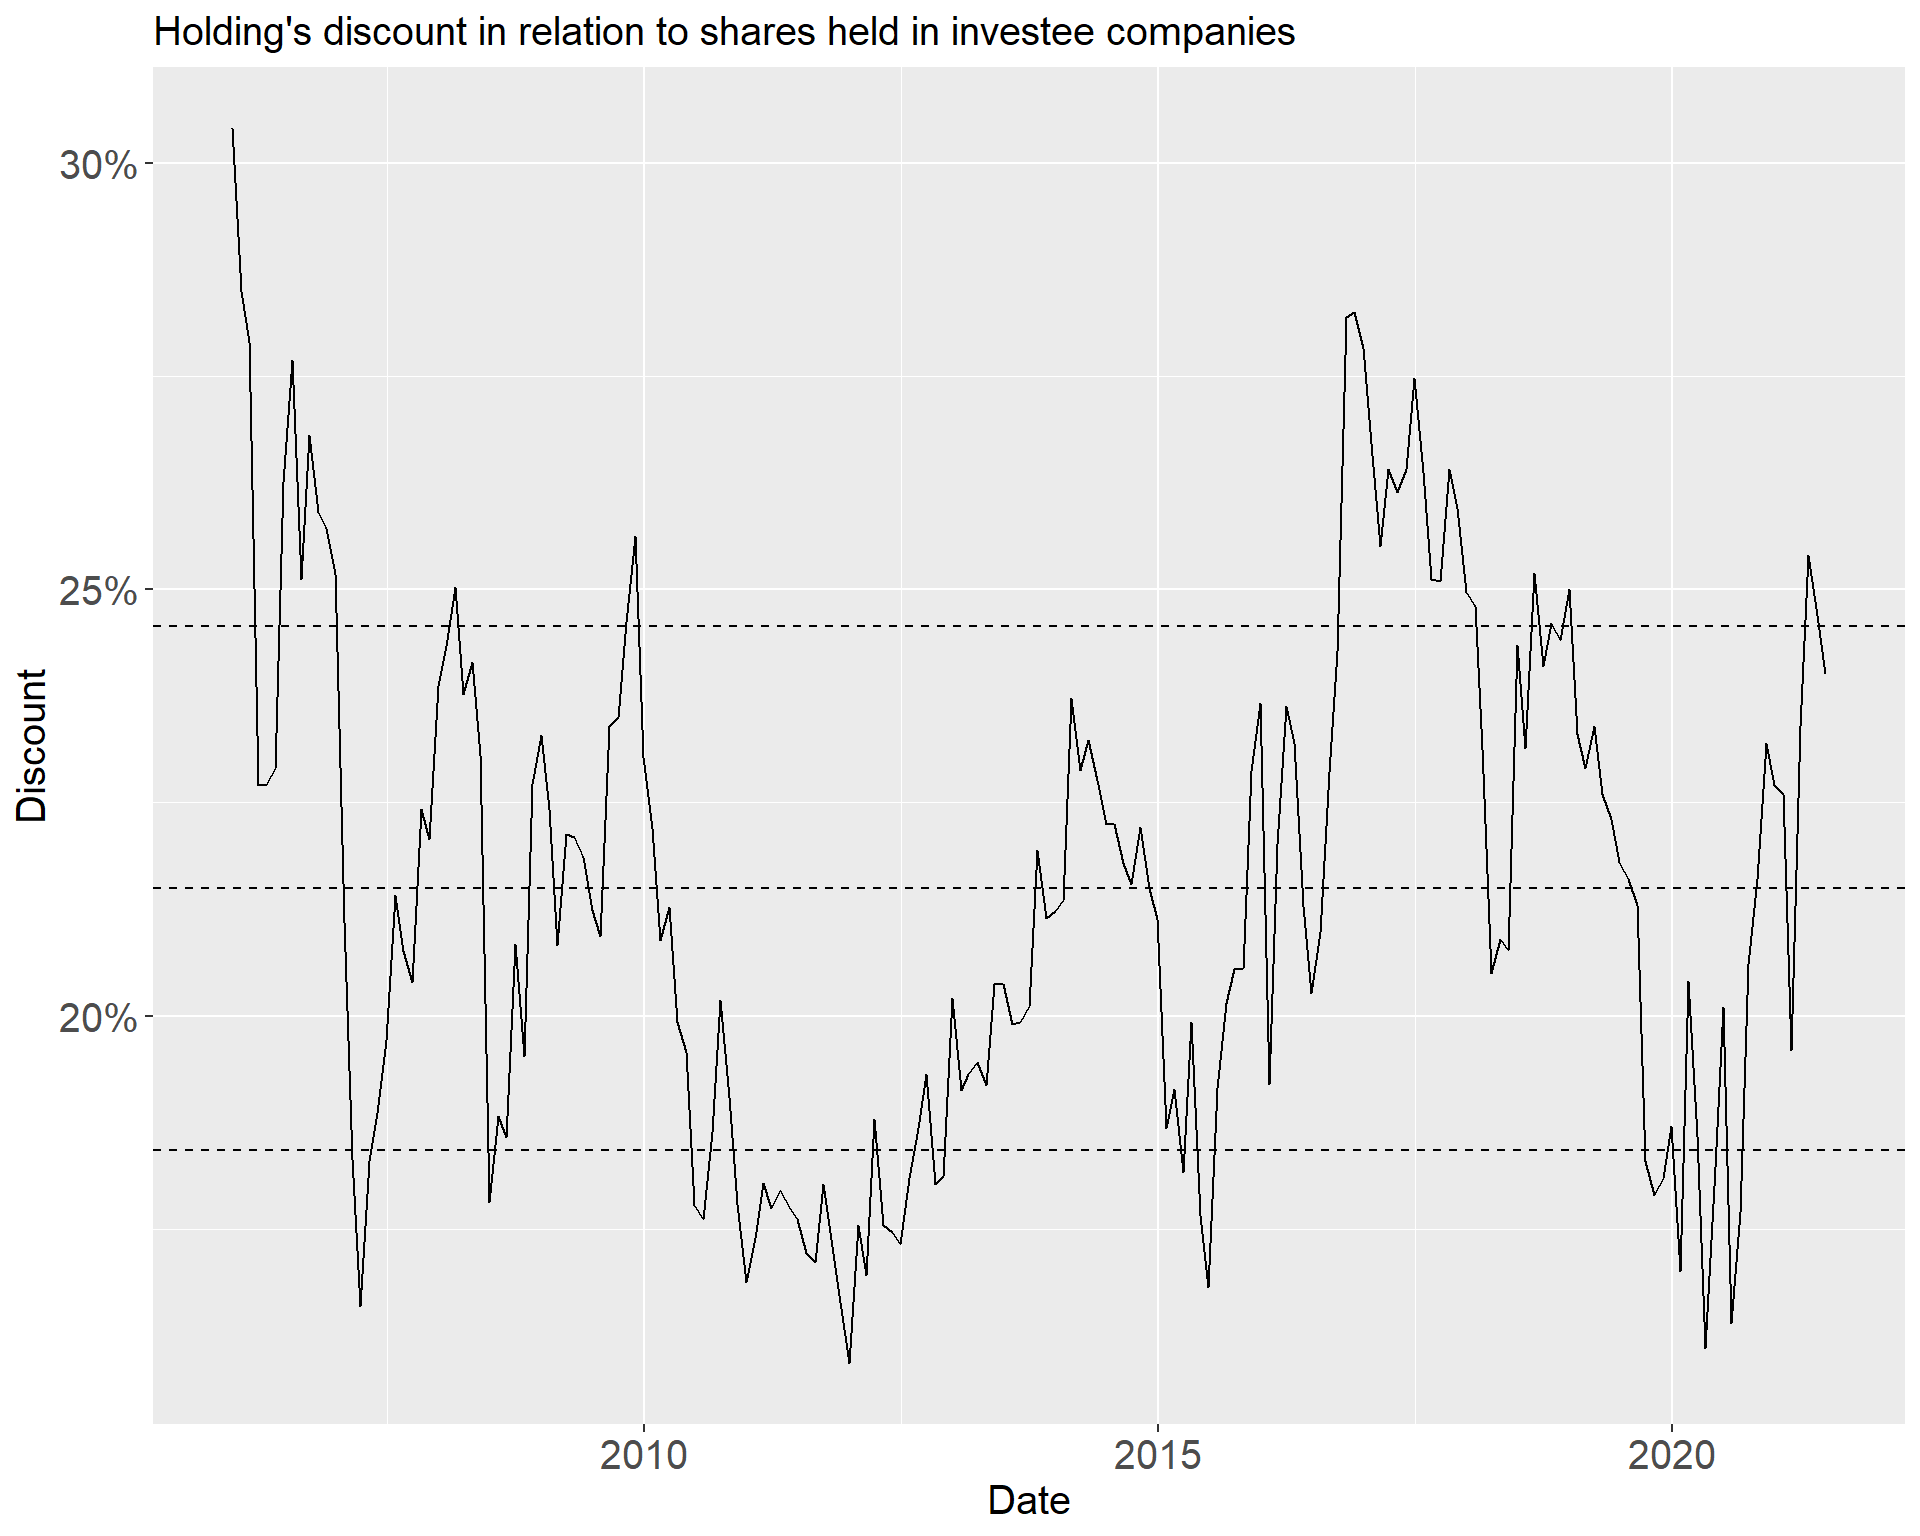
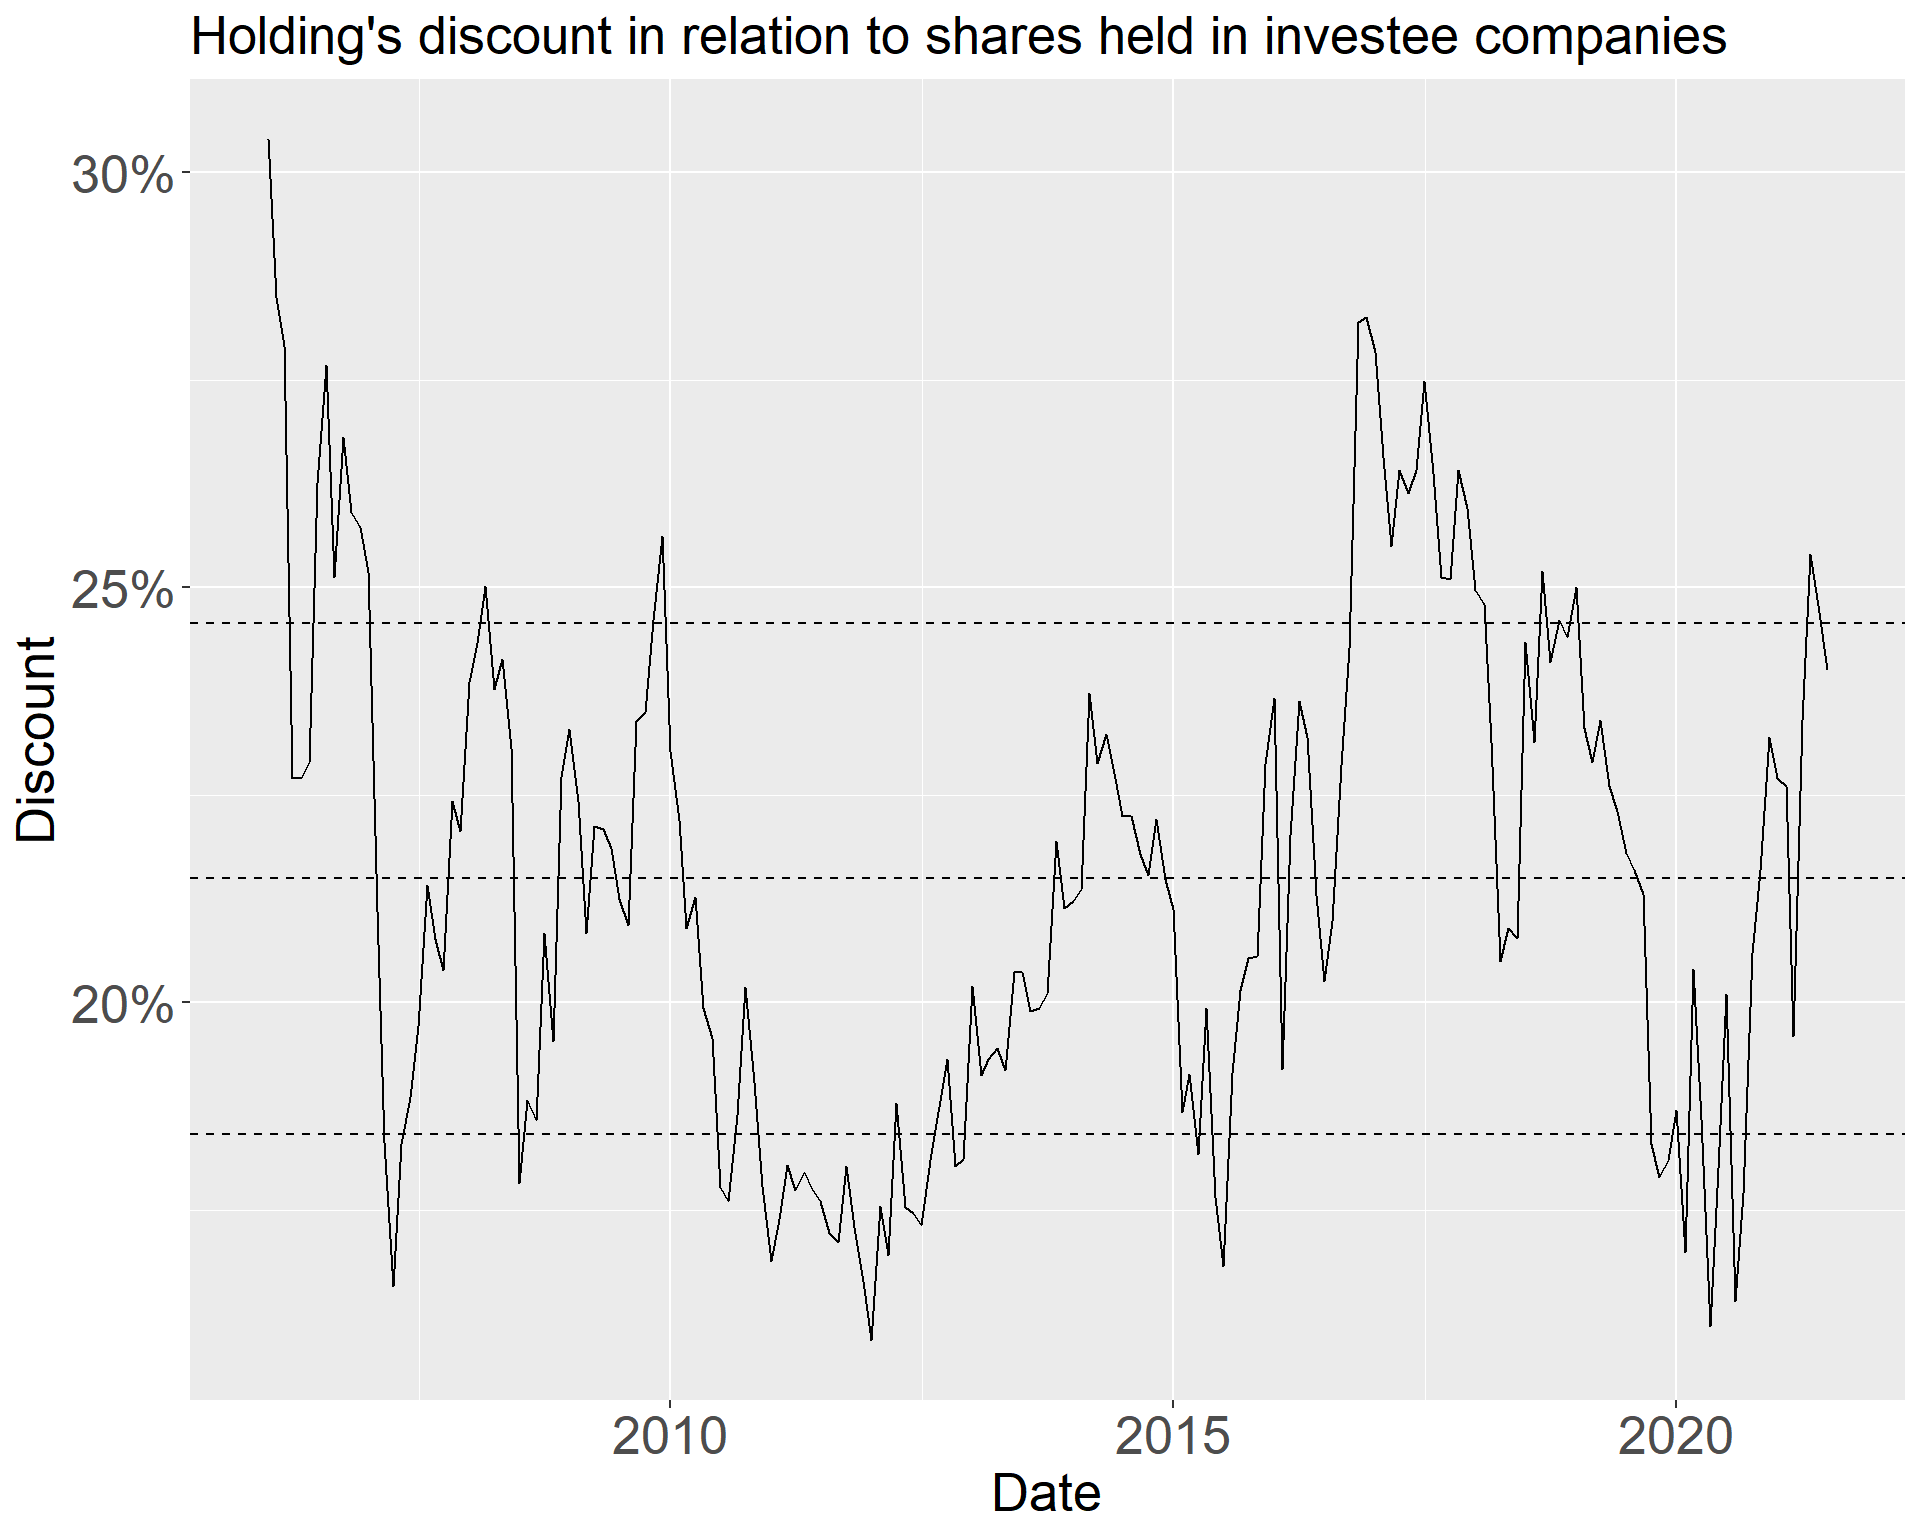
Update post

diff --git a/content/post/2021-07-31-arbitrate-itsa4-itub4/index.en.html b/content/post/2021-07-31-arbitrate-itsa4-itub4/index.en.html
@@ -48,10 +48,13 @@ g &lt;- ggscatter(data = merge, x = &quot;itsa_price&quot;, y = &quot;itub_price
                add.params = list(color = &quot;blue&quot;, fill = &quot;lightgray&quot;), 
                conf.int = TRUE)
 g + 
-  stat_cor(method = &quot;pearson&quot;, label.x = 3, label.y = 30) + 
+  stat_cor(method = &quot;pearson&quot;, label.x = 3, label.y = 30, size = 20) + 
   labs(x = &quot;ITSA4&quot;,
        y = &quot;ITUB4&quot;,
-       title = &quot;Scatterplot ITSA4 versus ITUB4&quot;)</code></pre>
+       title = &quot;Scatterplot ITSA4 versus ITUB4&quot;) + 
+  theme(axis.text=element_text(size=20),
+        axis.title=element_text(size=20),
+        plot.title = element_text(size=20))</code></pre>
 <p><img src="{{< blogdown/postref >}}index.en_files/figure-html/correlation-1.png" width="960" /></p>
 <p>As you can see, correlatin is equal to 0.99, which means that ITUB4 and ITSA4 mean almost the same thing. As a holding, ITSA4 is traded at a discount in relation to the sum of its investees’ market capitalization. But, how much is the “fair” discount, and can we buy ITSA4 simply to get ITUB4 at lower prices? These are the questions that this post intends to answer.</p>
 <p>Fortunatelly, Itaúsa calculates this discount for us, in a monthly basis (click <a href="https://www.itausa.com.br/ListAtivos.aspx?idCanal=Afrgtrc88Ma15TQHbkasoQ==&amp;linguagem=pt&amp;ano=2021">here</a> to get the data). If you don’t want to or don’t know how to get your hands dirty, I have already done the job, which you can see on the plot below:</p>
@@ -75,9 +78,9 @@ ggplot(data = df, aes(x = date, y = discount)) +
   labs(x = &quot;Date&quot;,
        y = &quot;Discount&quot;,
        title = &quot;Holding&#39;s discount in relation to shares held in investee companies&quot;) + 
-  theme(axis.text=element_text(size=15),
-        axis.title=element_text(size=15),
-        plot.title = element_text(size=15))</code></pre>
+  theme(axis.text=element_text(size=20),
+        axis.title=element_text(size=20),
+        plot.title = element_text(size=20))</code></pre>
 <p><img src="{{< blogdown/postref >}}index.en_files/figure-html/plot%20discount%20time%20series-1.png" width="960" /></p>
 <p>Dashed horizontal lines represent the mean (at the center), mean plus 1 standard deviation (at the top), and mean minus 1 standard deviation (at the bottom). In other words, in most part of the time, this discount ranges between something like 18% and 25%. Another way of visualizing the same information is plotting an histogram:</p>
 <pre class="r"><code># plot distribution
@@ -90,9 +93,9 @@ ggplot(data = df, aes(x = discount)) +
        title = &quot;Discount&#39;s Distribution&quot;) + 
   geom_vline(xintercept = mean(df$discount), 
              linetype = &quot;dashed&quot;, size = 1, color = &quot;red&quot;) + 
-  theme(axis.text=element_text(size=15),
-        axis.title=element_text(size=15),
-        plot.title = element_text(size=15))</code></pre>
+  theme(axis.text=element_text(size=20),
+        axis.title=element_text(size=20),
+        plot.title = element_text(size=20))</code></pre>
 <p><img src="{{< blogdown/postref >}}index.en_files/figure-html/discount%20histogram-1.png" width="960" /></p>
 <p>Red dashed vertical line represents the mean. Distribution is rigth-skewed, which means that in some occasions the discount was too high (more than 30%). Numerically, let’s view the summary stats:</p>
 <pre class="r"><code># summary statistics
@@ -144,9 +147,9 @@ ggplot(data = data,
        title = &quot;Returns comparison&#39;s boxplot&quot;) + 
   theme(legend.position = &quot;none&quot;) + 
   scale_fill_manual(values = c(&quot;red3&quot;,&quot;green4&quot;)) + 
-  theme(axis.text=element_text(size=15),
-        axis.title=element_text(size=15),
-        plot.title = element_text(size=15))</code></pre>
+  theme(axis.text=element_text(size=20),
+        axis.title=element_text(size=20),
+        plot.title = element_text(size=20))</code></pre>
 <p><img src="{{< blogdown/postref >}}index.en_files/figure-html/sucess%20failure%20boxplot-1.png" width="960" /></p>
 <p>A density distribution:</p>
 <pre class="r"><code># density of difference on returns                           
@@ -158,10 +161,10 @@ ggplot(data = data, aes(x = discount, fill = factor(success))) +
        title = &quot;Returns comparison&#39;s distribution&quot;) + 
   theme(legend.position = &quot;bottom&quot;,
         legend.title = element_blank(),
-        legend.text = element_text(size=15),
-        axis.text=element_text(size=15),
-        axis.title=element_text(size=15),
-        plot.title = element_text(size=15)) + 
+        legend.text = element_text(size=20),
+        axis.text=element_text(size=20),
+        axis.title=element_text(size=20),
+        plot.title = element_text(size=20)) + 
   scale_fill_manual(labels = c(&quot;ITSA4 &lt;= ITUB4&quot;, &quot;ITSA4 &gt; ITUB4&quot;),
                     values = c(&quot;red&quot;,&quot;green3&quot;))</code></pre>
 <p><img src="{{< blogdown/postref >}}index.en_files/figure-html/success%20failure%20density-1.png" width="960" /></p>
@@ -179,10 +182,10 @@ data %&gt;%
        y = &quot;Count&quot;,
        title = &quot;Returns comparison&#39;s distribution&quot;) + 
   theme(legend.position = &quot;none&quot;,
-        axis.text=element_text(size=15),
-        axis.title=element_text(size=15),
-        plot.title = element_text(size=15),
-        strip.text = element_text(size = 15)) + 
+        axis.text=element_text(size=20),
+        axis.title=element_text(size=20),
+        plot.title = element_text(size=20),
+        strip.text = element_text(size = 20)) + 
   scale_fill_manual(values=c(&quot;red&quot;, &quot;green3&quot;))</code></pre>
 <p><img src="{{< blogdown/postref >}}index.en_files/figure-html/success%20failure%20histogram-1.png" width="960" /></p>
 <p>On the three plots, we conclude that ITSA4 returns were higher than ITUB4 returns when ITSA4 was traded at a higher discount in relation to the sum of its investees’ market capitalization (which is pretty intuitive). About the third plot, green bars are much higher just because it is more frequent that ITSA4 gets a better return than ITUB4.</p>
@@ -226,10 +229,10 @@ data %&gt;%
         panel.grid.minor.x=element_blank(),
         panel.grid.major.y=element_line(linetype=&quot;dashed&quot;, color=&quot;black&quot;),
         axis.text.x=element_blank(),
-        axis.text.y=element_text(size = 15),
+        axis.text.y=element_text(size = 20),
         axis.ticks.x=element_blank(),
-        axis.title=element_text(size=15),
-        plot.title = element_text(size=15)) + 
+        axis.title=element_text(size=20),
+        plot.title = element_text(size=20)) + 
   labs(x = &quot;Probability&quot;,
        y = &quot;Discount&quot;,
        title = &quot;Probability of ITSA4 &gt; ITUB4 Returns&quot;) + 
@@ -249,10 +252,10 @@ ggplot(data = data, aes(x = date,
   scale_y_continuous(labels = percent_format(accuracy = 1)) + 
   theme(legend.position = &quot;bottom&quot;,
         legend.title = element_blank(),
-        legend.text = element_text(size=15),
-        axis.text=element_text(size=15),
-        axis.title=element_text(size=15),
-        plot.title = element_text(size=15)) +
+        legend.text = element_text(size=20),
+        axis.text=element_text(size=20),
+        axis.title=element_text(size=20),
+        plot.title = element_text(size=20)) +
   scale_color_manual(values=c(&quot;red&quot;, &quot;green3&quot;), 
                      labels=c(&quot;ITSA4 &lt;= ITUB4&quot;, &quot;ITSA4 &gt; ITUB4&quot;))</code></pre>
 <p><img src="{{< blogdown/postref >}}index.en_files/figure-html/success%20failure%20time%20series-1.png" width="960" /></p>
